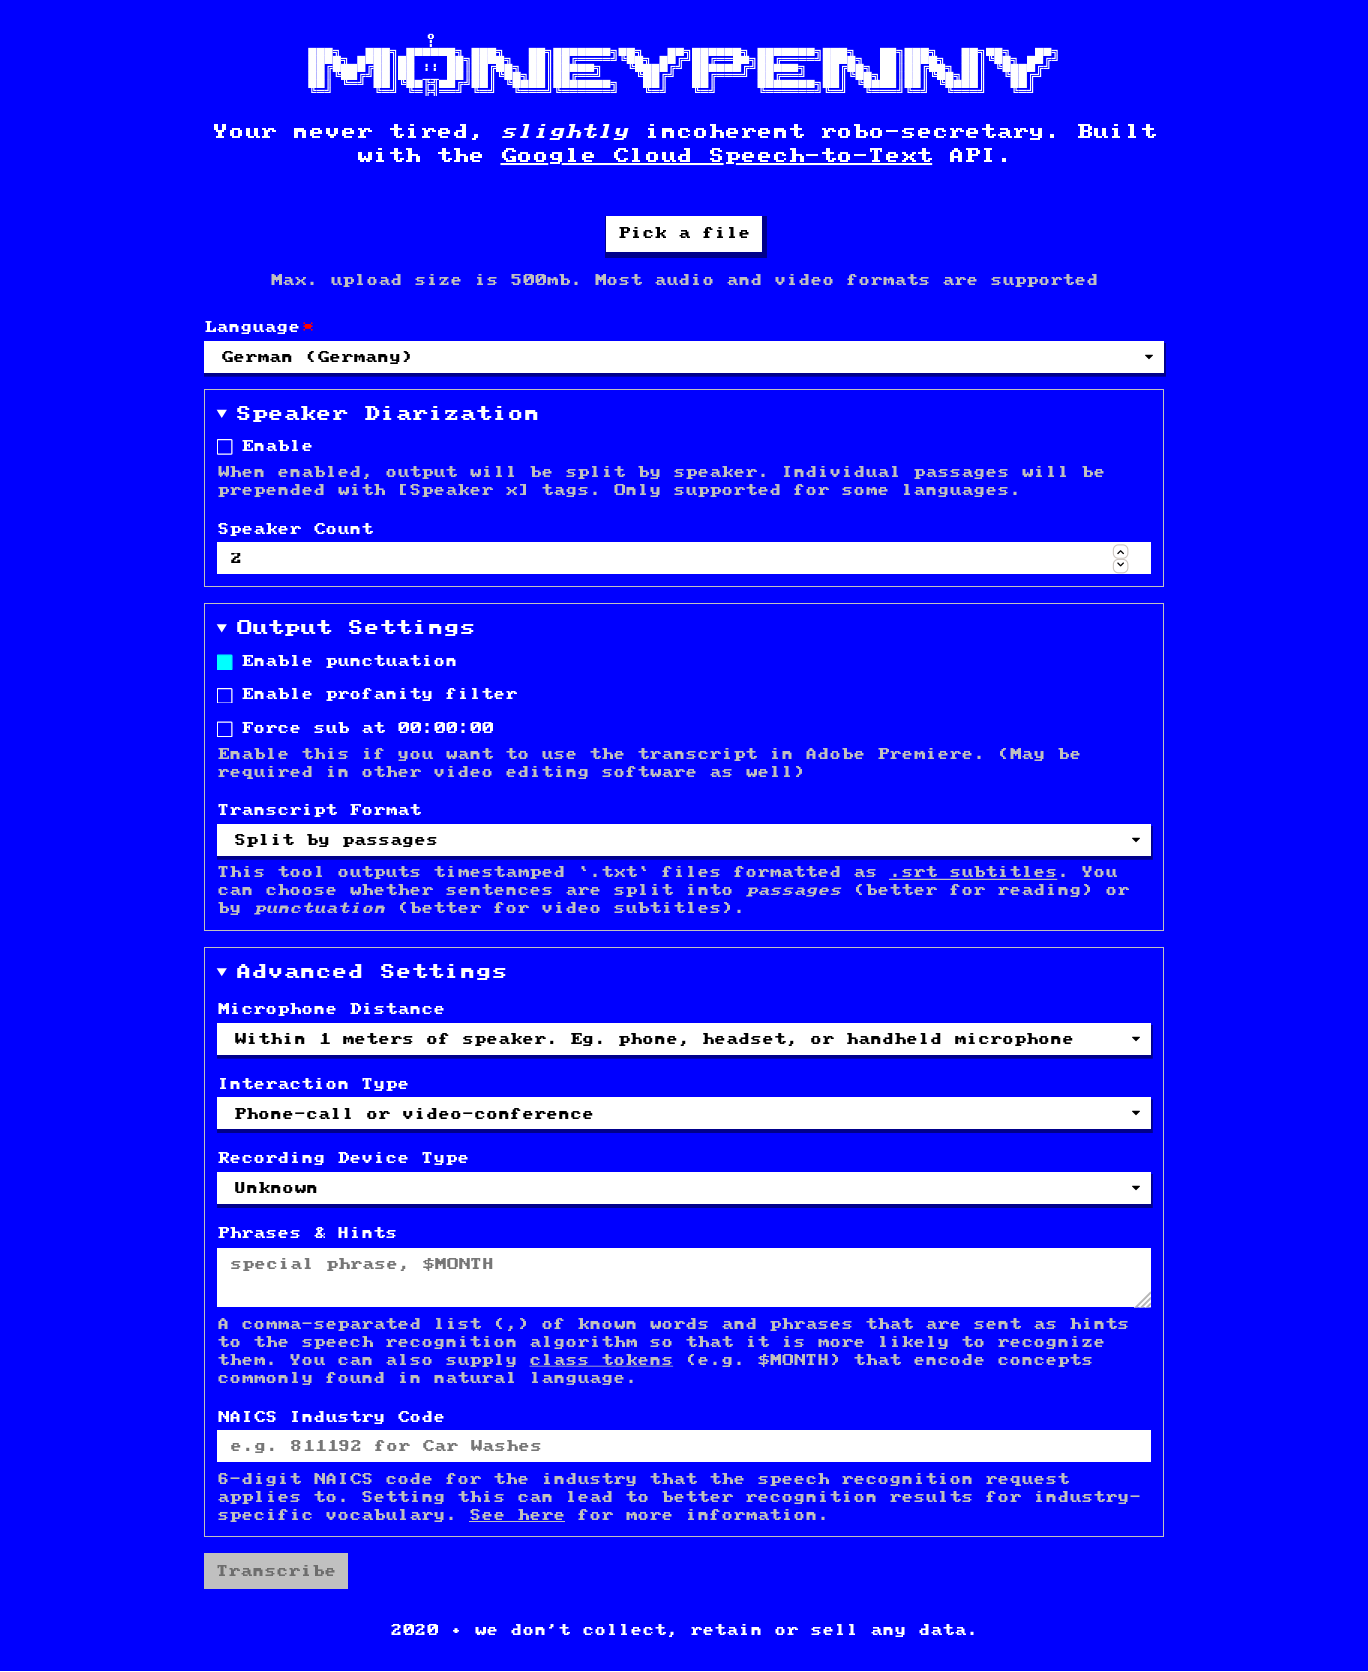
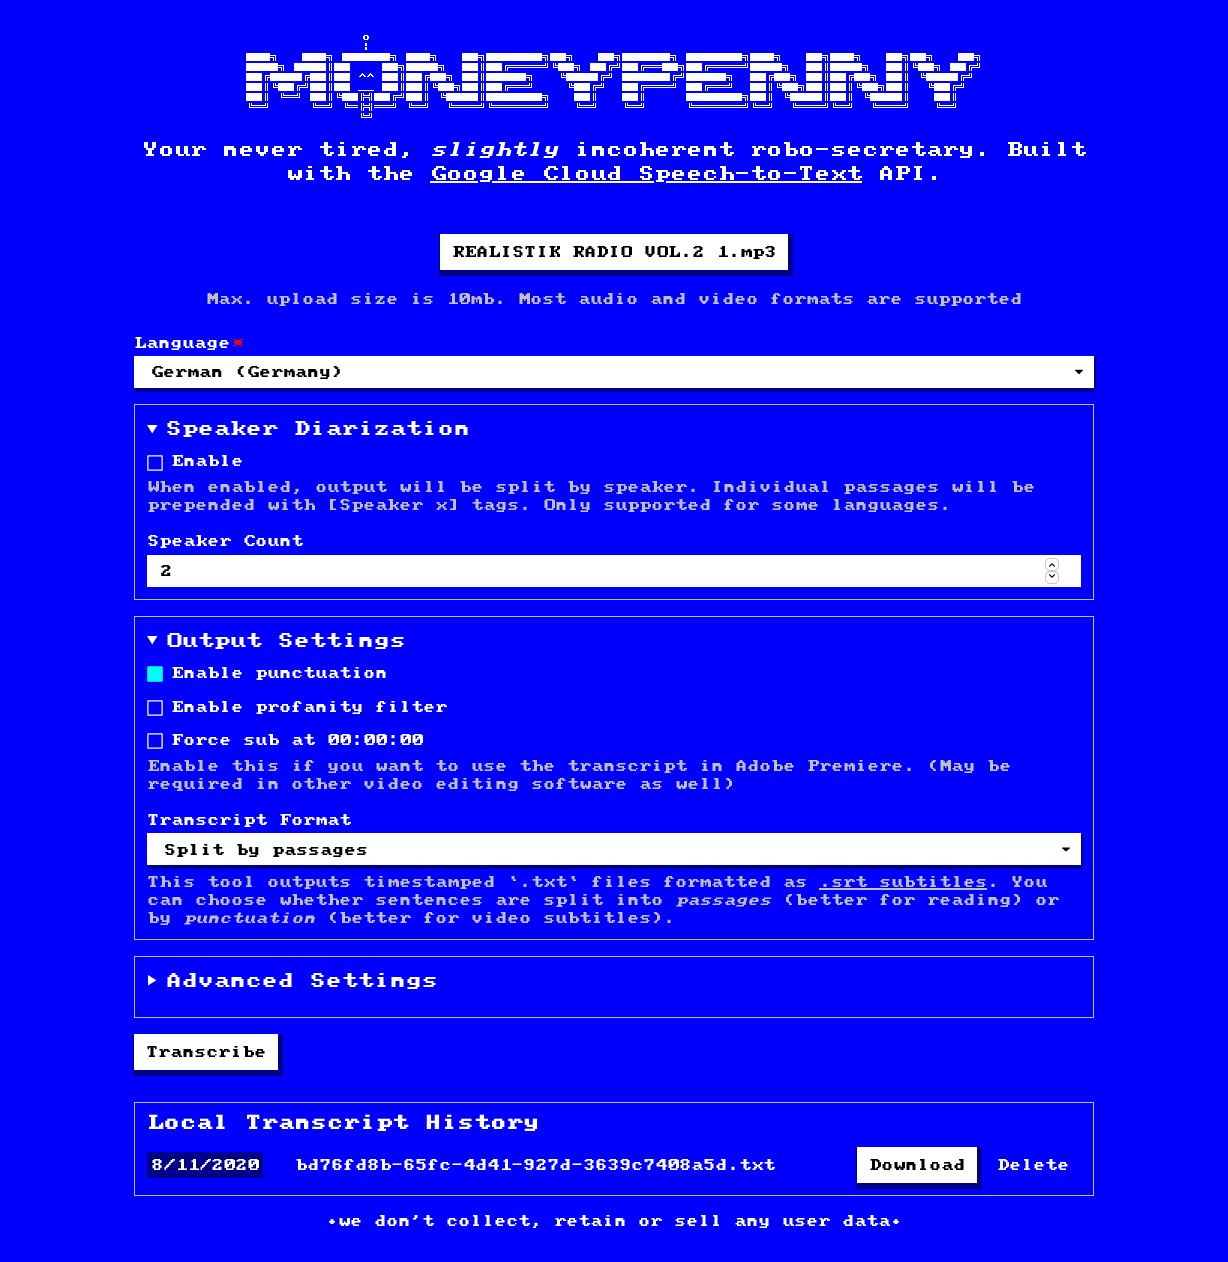
Update typography

Changed region(s): [[0.0928, 0.0309, 0.8974, 0.9889], [0.8355, 0.0927, 0.8664, 0.1236], [0.1238, 0.0927, 0.1547, 0.1236]]

diff --git a/public/css/main.css b/public/css/main.css
@@ -24,7 +24,7 @@ pre {
 }
 
 body {
-  font-size: 0.75rem;
+  font-size: 0.875rem;
   line-height: 1.5;
   background: blue;
   color: white;
@@ -46,12 +46,6 @@ h6 {
 
 p {
   margin: 0;
-}
-
-@media screen and (min-width: 40rem) {
-  body {
-    font-size: 1rem;
-  }
 }
 
 /* Button */
@@ -355,6 +349,10 @@ select[aria-disabled=true] {
   font-size: 2px;
 }
 
+.sub {
+  font-size: 1rem;
+}
+
 @media screen and (min-width: 21.5rem) {
   .title pre {
     margin: 0;
@@ -410,6 +408,7 @@ select[aria-disabled=true] {
 }
 
 .form-accordion summary {
+  font-size: 1rem;
   margin-bottom: 0.75rem;
 }
 
